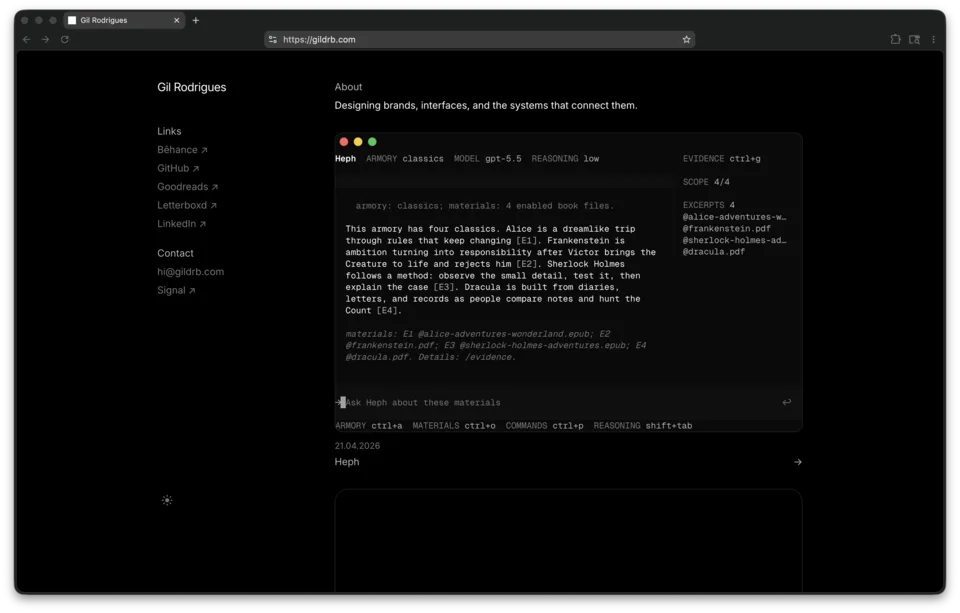
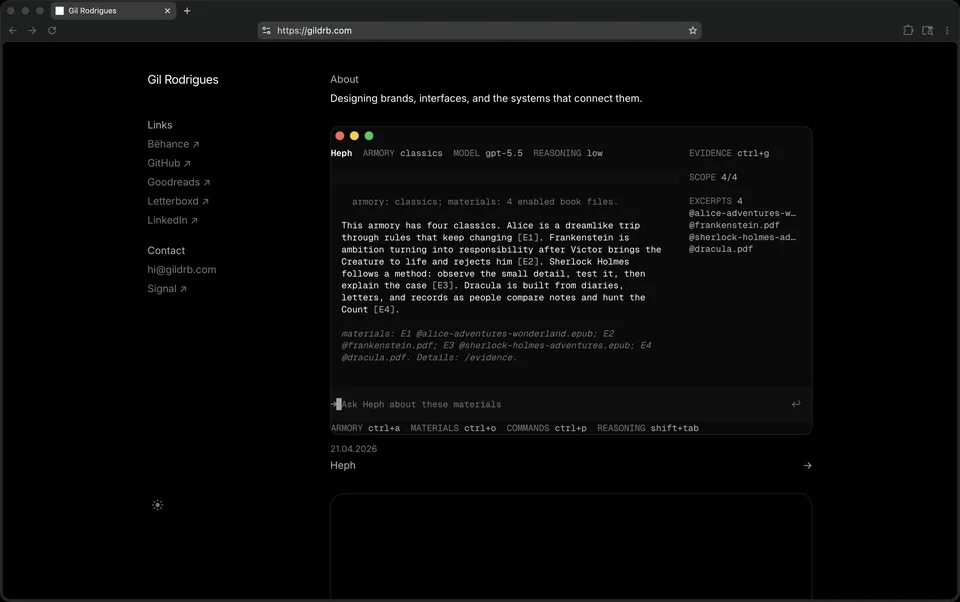
Recrop portfolio website card screenshot

diff --git a/index.html b/index.html
@@ -3381,8 +3381,8 @@ body {
                                     images/optimized/gil-rodrigues-portfolio-site-1600.webp 1600w
                                 "
                                 sizes="(max-width: 768px) calc(100vw - 24px), (max-width: 1100px) calc(100vw - 336px), 760px"
-                                width="3118"
-                                height="1990"
+                                width="3026"
+                                height="1898"
                                 alt="The portfolio homepage in dark mode with the About line and the interactive Heph terminal demo"
                                 loading="lazy"
                                 decoding="async"

diff --git a/src/sections/portfolio-site.html b/src/sections/portfolio-site.html
@@ -18,8 +18,8 @@
                                     images/optimized/gil-rodrigues-portfolio-site-1600.webp 1600w
                                 "
                                 sizes="(max-width: 768px) calc(100vw - 24px), (max-width: 1100px) calc(100vw - 336px), 760px"
-                                width="3118"
-                                height="1990"
+                                width="3026"
+                                height="1898"
                                 alt="The portfolio homepage in dark mode with the About line and the interactive Heph terminal demo"
                                 loading="lazy"
                                 decoding="async"
